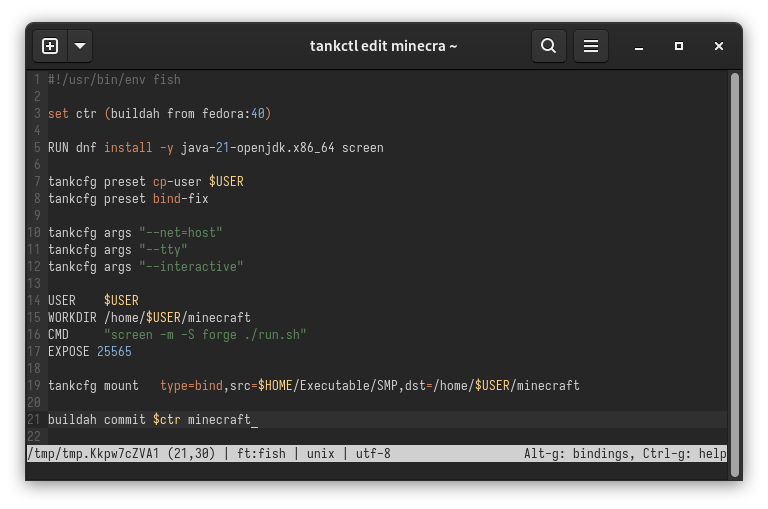
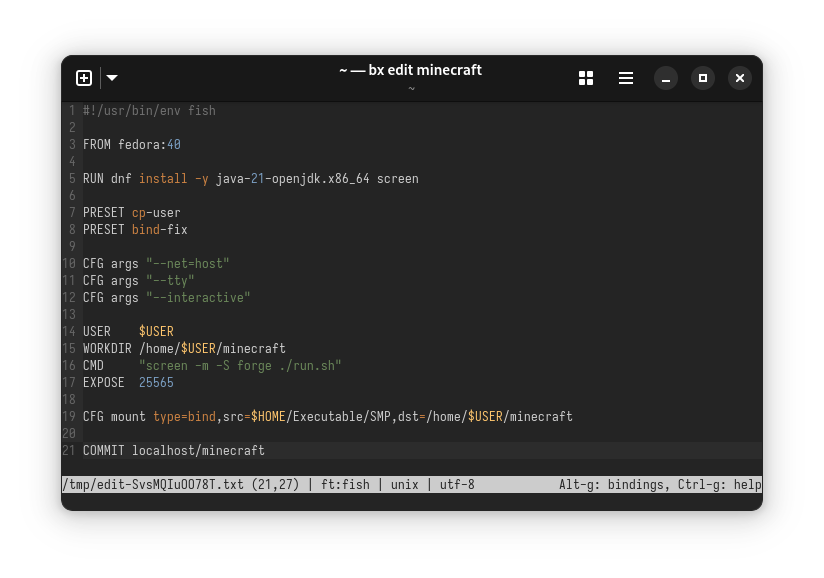
Update README images Fix Containerfile and POSIX

Changed region(s): [[0.0, 0.0295, 1.0, 0.9725]]

diff --git a/src/main.rs b/src/main.rs
@@ -419,22 +419,64 @@ fn evaluate_config(operation: String, args: Vec<String>) -> Result<()> {
         // because correctly handling arguments split by --
         // in shellcode is... non trivial.
         "run" => {
-            Command::new("buildah")
-                .arg("run")
-                .args(trailing)
-                .arg(ctr)
-                .arg("--")
-                .args(args)
-                .spawn_ok()?
+            let mut c = Command::new("buildah");
+
+            c.arg("run");
+
+            if trailing.is_empty() {
+                c
+                    .arg(ctr)
+                    .arg("--")
+                    .args(args);
+            }
+            else {
+                c
+                    .args(args)
+                    .arg(ctr)
+                    .arg("--")
+                    .args(trailing);
+            }
+
+            c.spawn_ok()?
         }
         "add" => {
-            Command::new("buildah")
-                .arg("add")
-                .args(args)
-                .arg(ctr)
-                .args(trailing)
-                .spawn_ok()?
-        }
+            let mut c = Command::new("buildah");
+
+            c.arg("add");
+
+            if trailing.is_empty() {
+                c
+                    .arg(ctr)
+                    .args(args);
+            }
+            else {
+                c
+                    .args(args)
+                    .arg(ctr)
+                    .args(trailing);
+            }
+
+            c.spawn_ok()?
+        },
+        "commit" => {
+            let mut c = Command::new("buildah");
+
+            c.arg("commit");
+
+            if trailing.is_empty() {
+                c
+                    .arg(ctr)
+                    .args(args);
+            }
+            else {
+                c
+                    .args(args)
+                    .arg(ctr)
+                    .args(trailing);
+            }
+
+            c.spawn_ok()?
+        },
         "preset" => {
             evaluate_preset(&ctr, args)?
         },

diff --git a/src/build.rs b/src/build.rs
@@ -303,7 +303,7 @@ impl Definition {
         Command::new("podman")
             .args([
                 "build",
-                "pull", "--newer",
+                "--pull=newer",
                 "--annotation", "manager=box",
             ])
             .arg("--annotation")
@@ -315,9 +315,9 @@ impl Definition {
             .arg("--annotation")
             .arg(tree)
             .arg("--tag")
-            .arg(name)
+            .arg(self.name())
             .arg("--file")
-            .arg(path)
+            .arg(&self.path)
             .spawn_ok()
             .context("Fault when evaluating Containerfile-based definition")?;
 

diff --git a/README.md b/README.md
@@ -26,10 +26,10 @@ Bring your existing Docker-style container definitions...
     <img src=".github/README_A.png">
 </p>
 
-Lightweight[^1], easy to install, and works on any Linux machine with `podman` and a compatible shell (POSIX-compliant or `fish`.)
+Lightweight[^1], easy to install, and works on any Linux machine with `podman`.
 
 ## Installation
-Before installing, make sure you have `podman` and a supported shell (either `fish` or anything POSIX-compliant) installed on your system.
+Before continuing, make sure you have `podman` (and `buildah`, if not included with `podman`) installed.
 
 ### From Source (Recommended)
 Build-time dependencies:
@@ -52,30 +52,30 @@ Box requires a definition for each container you'd like to create. Definitions c
 - Standard Container/Dockerfiles - just add `#~ containerfile = true` to the text and you're good to go.
 - Shell scripts (POSIX or `fish`) that run in a special harness. This injects additional functions and wraps a few others to provide additional functionality not present in Containerfiles, like the ability to declare runtime arguments such as mounts.
 
-Either type must be stored with the file extension `.box` under either:
+Either type must be stored with the file extension `.box` under one of:
 
 - `$BOX_DEFINITION_DIR`
 - `$XDG_CONFIG_HOME/box`
 - `$HOME/.config/box`
 
-... in that order.
+Box checks in that order, using the first valid directory it finds.
 
-To create and edit a new definition, you can simply run `box create <NAME>`. This will create the file and open it using your `$EDITOR`.
+To create and edit a new definition, you can simply run `bx create <NAME>`. This will create the file and open it using your `$EDITOR`.
 
-`box edit <NAME>` can be used to alter existing definitions; both commands will use a temporary file for editing.
+`bx edit <NAME>` can be used to alter existing definitions; both commands will use a temporary file for editing.
 
 Shell-based definitions run in the same directory as the definition, and should look something like the below. I use Fish, but the general structure
 readily translates to POSIX-compatible syntaxes.
 
 ```sh
 # Create a new working container.
-set ctr (FROM fedora-toolbox:latest)
+FROM fedora-toolbox:latest
 
 # Set up the new container...
 RUN dnf install gcc
 
 # Commit the configured container as an image.
-COMMIT $ctr toolbox
+COMMIT toolbox
 ```
 
 The harness for shell-based definitions provides several tools for setting up your container.
@@ -101,7 +101,7 @@ for my development containers.
 
 # Fedora Toolbox is my preferred base, but there are similar images
 # available for distributions like Debian and Arch.
-set ctr (FROM fedora-toolbox:latest)
+FROM fedora-toolbox:latest
 
 # Copy my user into the container.
 PRESET preset cp-user $USER
@@ -128,7 +128,7 @@ WORKDIR /home/$USER
 CMD     "sleep inf"
 
 # Commit the image.
-COMMIT $ctr localhost/base
+COMMIT localhost/base
 ```
 
 ```sh
@@ -137,7 +137,7 @@ COMMIT $ctr localhost/base
 # Box is capable of computing (and following) 
 # a dependency graph for your definitions via the `depends_on` metadata key.
 
-set ctr (FROM localhost/base)
+FROM localhost/base
 
 ENV "CARGO_INSTALL_ROOT=/home/$USER/.cargo/install"
 
@@ -156,7 +156,7 @@ tankcfg mount type=bind,src=$HOME/Documents/Projects,dst=/home/$USER/Projects
 tankcfg mount type=bind,src=$HOME/.local/bin/cargo,dst=/home/$USER/.cargo/install/bin
 
 # Commit the container, basing the name on the symlink used to invoke this definition.
-COMMIT $ctr localhost/rust
+COMMIT localhost/rust
 ```
 
 While Box may be branded as an "interactive" container manager, it works just as well for containerized services. This definition is all I need for my Jellyfin server, including support for AMD hardware acceleration:
@@ -164,7 +164,7 @@ While Box may be branded as an "interactive" container manager, it works just as
 ```sh
 #!/usr/bin/env fish
 
-set ctr (FROM jellyfin/jellyfin:latest)
+FROM jellyfin/jellyfin:latest
 
 PRESET bind-fix
 
@@ -177,7 +177,7 @@ CFG args "--net=host"
 CFG args "--group-add=105" 
 CFG args "--user=1000:1000"
 
-COMMIT $ctr jellyfin
+COMMIT jellyfin
 ```
 
 In testing, I've had success with everything from a Minecraft server to [Ollama](https://ollama.com) by simply adapting existing Docker instructions.
@@ -185,14 +185,14 @@ In testing, I've had success with everything from a Minecraft server to [Ollama]
 ## FAQ
 
 ### "How does this compare to Toolbx or Distrobox?"
-It depends!
+It depends! I definitely wouldn't make a strict "better or worse" call.
 
 I used to heavily rely on Toolbx for my development environments, and I also dabbled with Distrobox. Both are excellent tools, but I have one big gripe with both: host integration.
 
 - Toolbx automatically runs as `--privileged` with (among other things) your entire `$HOME` and `$XDG_RUNTIME_DIR` mounted into the container, and offers no way to opt-out.
 - Distrobox is similar, but does offer some opt-outs. You can also choose to use an alternate `$HOME` on the host (not inside the container.)
 
-Box, by contrast, is entirely opt-in when it comes to host integrations. You get to choose precisely what (if anything) is shared.
+As a Silverblue user, this tight coupling with my "pure" host always left a bad taste in my mouth. Box, by contrast, is entirely opt-in when it comes to host integrations. You get to choose precisely what (if anything) is shared.
 
 > This is good for "soft" security against stuff like supply chain attacks; if (some day) I execute a `build.rs` that tries to hijack my session tokens or wipe my system - no big deal.
 
@@ -216,15 +216,5 @@ A few reasons:
 
 This seems to be a `podman` issue with the default `overlay` storage driver on BTRFS (and possibly ZFS) systems that causes expensive copies during container creation.
 I followed [this](https://www.jwillikers.com/podman-with-btrfs-and-zfs) guide to switch my storage driver to use BTRFS subvolumes and experienced massive speedups.
-
-### "Why Rust?"
-It's my favorite out of the "good for command-line" language pantheon.
-
-The main requirements were:
-- Quick, especially at startup.
-- Space efficient.
-- No runtime dependencies apart from the `podman` suite.
-
-A fast, small, and self-contained binary is one that I can commit to my `dotfiles` repository and forget about. The same cannot be said of an equivalently feature rich Python utility.
 
 [^1]: Single Rust binary compiled from ~2000 lines of boring plumbing code. Red Hat and the OCI have already done all the heavy lifting here!
